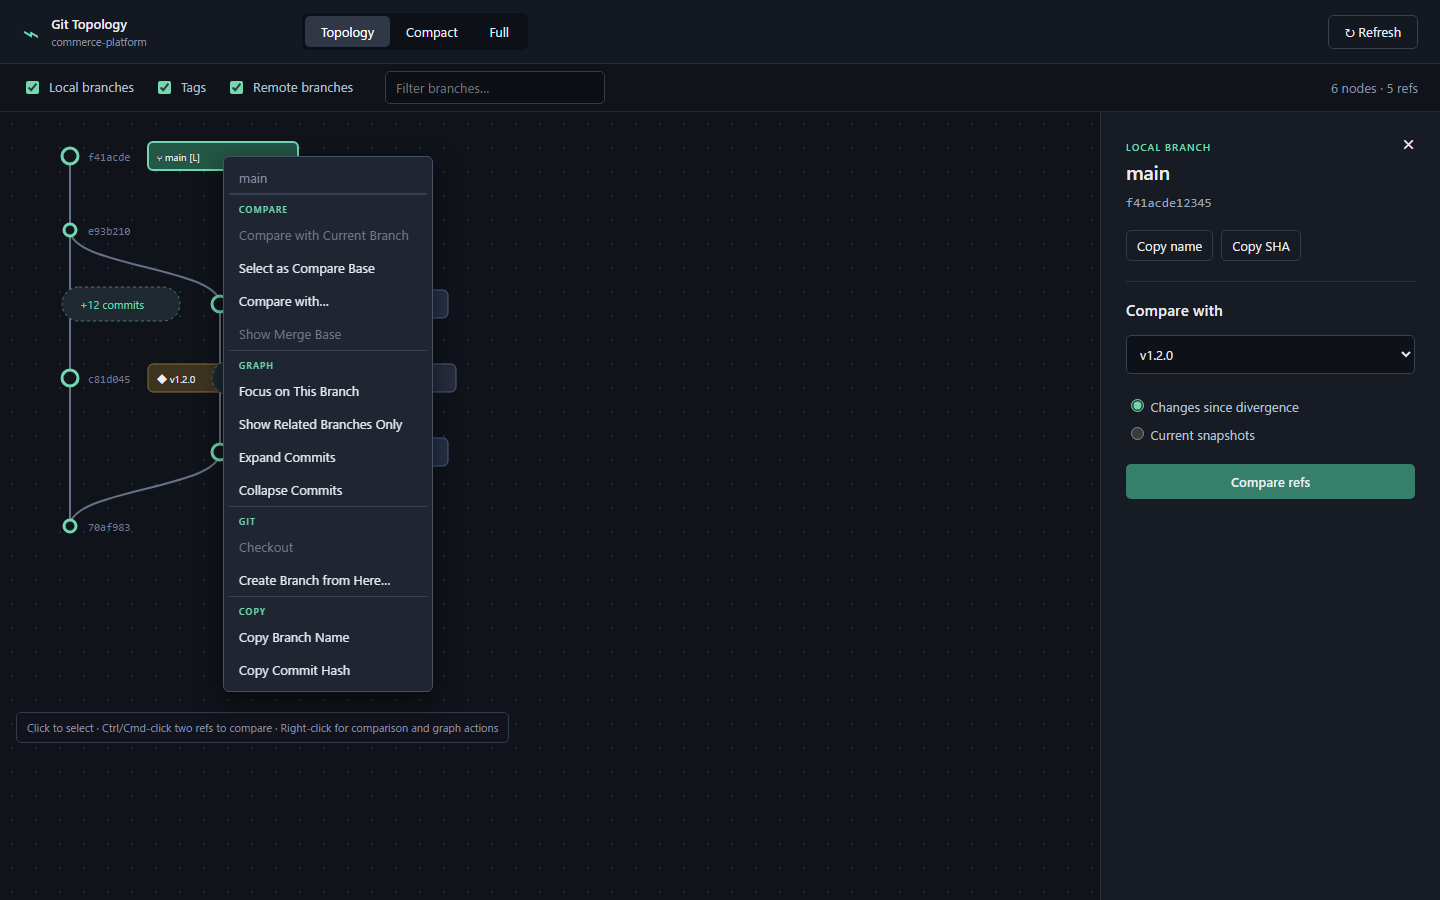
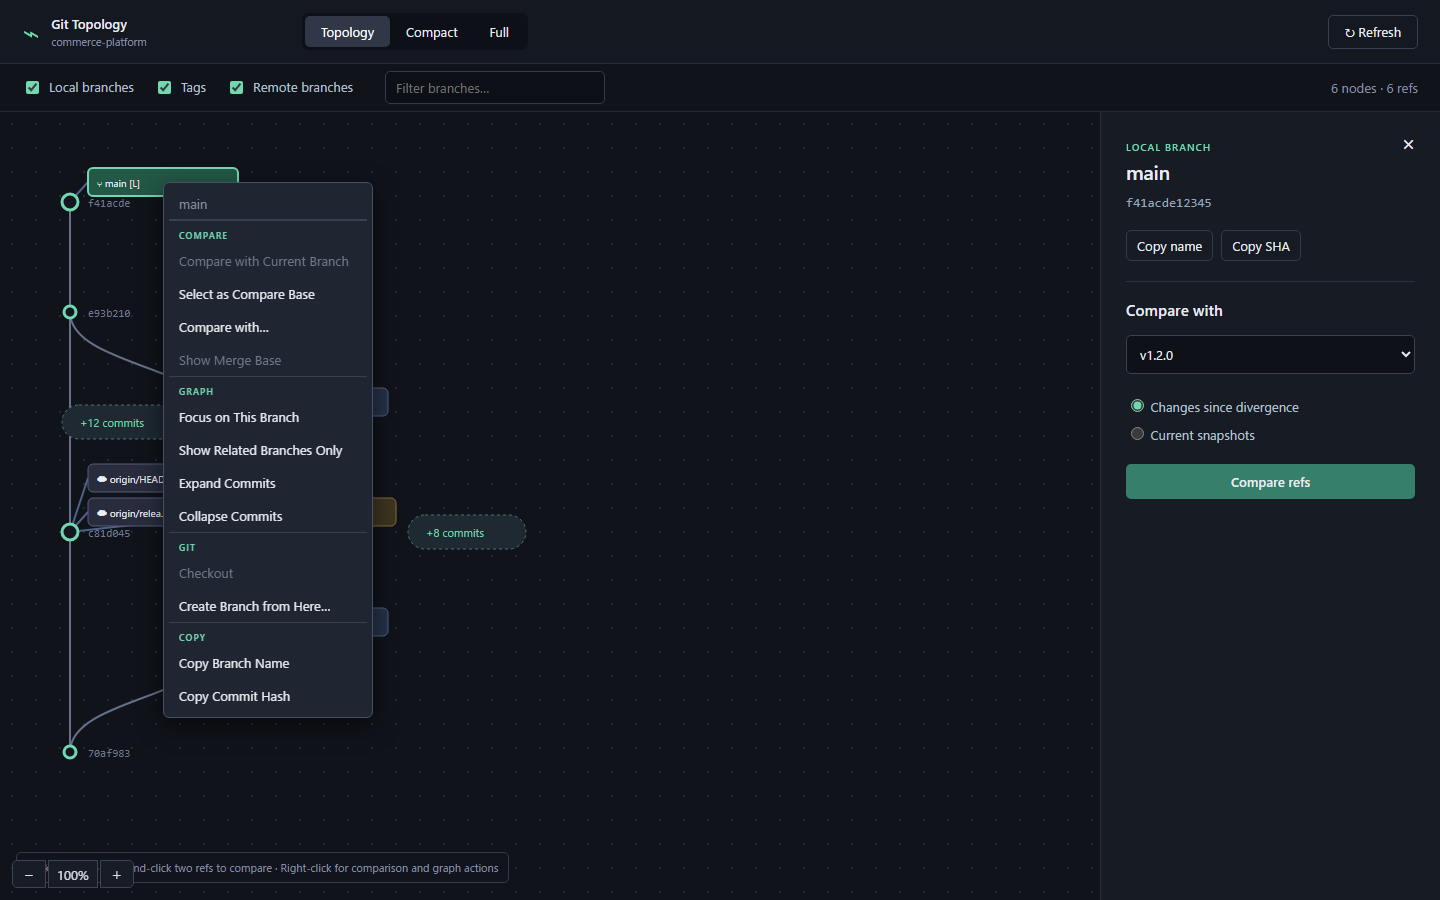
Adjust graph ref connections and zoom controls

Changed region(s): [[0.0312, 0.1556, 0.3438, 0.84], [0.0312, 0.9333, 0.3438, 0.9956]]

diff --git a/src/webview/styles.css b/src/webview/styles.css
@@ -1,3 +1,3 @@
 :root{color-scheme:dark;--bg:#10131a;--panel:#171b24;--muted:#8992a7;--line:#343c4d;--accent:#72d8b1;--blue:#6aa8ff}*{box-sizing:border-box}body{margin:0;background:var(--bg);color:#e8ebf2;font:13px var(--vscode-font-family,Inter,system-ui,sans-serif)}button,input,select{font:inherit;color:inherit}.app{height:100vh;display:flex;flex-direction:column}header{height:64px;display:flex;align-items:center;padding:0 22px;border-bottom:1px solid #282e3a;background:#141821}.brand{display:flex;gap:11px;align-items:center;min-width:280px}.brand .mark{font-size:30px;color:var(--accent)}.brand strong,.brand small{display:block}.brand small{color:var(--muted);margin-top:2px}.modes{display:flex;background:#0d1016;padding:3px;border-radius:7px}.modes button,.refresh,.actions button{border:0;background:transparent;padding:7px 16px;border-radius:5px}.modes .active{background:#303848;color:#fff}.refresh{margin-left:auto;border:1px solid #384152}.filters{height:48px;display:flex;align-items:center;gap:20px;padding:0 22px;border-bottom:1px solid #252b36;color:#b8c0d0}.filters label{display:flex;gap:7px}.filters input[type=checkbox]{accent-color:var(--accent)}.filters .search{margin-left:12px;background:#0c0f15;border:1px solid #343c49;border-radius:5px;padding:7px 10px;width:220px}.filters span{margin-left:auto;color:var(--muted)}.content{display:grid;grid-template-columns:minmax(0,1fr) 340px;flex:1;min-height:0}.canvas{overflow:auto;background-image:radial-gradient(#252b36 1px,transparent 1px);background-size:24px 24px}.canvas svg{display:block}.edges path{fill:none;stroke:#647189;stroke-width:2}.node circle{fill:#12161e;stroke:var(--accent);stroke-width:3}.node .sha{fill:#6f798c;font-family:monospace;font-size:11px}.ref{cursor:pointer}.ref rect{fill:#263147;stroke:#4e6388}.ref text{fill:#e9eef8;font-size:11px}.ref.tag rect{fill:#3d3420;stroke:#856f38}.ref.remoteBranch rect{fill:#282c3d;stroke:#555f7d}.range{cursor:pointer}.range rect{fill:#1e2932;stroke:#4f786d;stroke-dasharray:3}.range text{fill:var(--accent);font-size:11px}aside{background:var(--panel);border-left:1px solid #292f3a;overflow:auto}.empty{text-align:center;padding:90px 40px;color:var(--muted)}.empty span{font-size:36px;color:#536078}.inspector{padding:25px;position:relative}.inspector>small,.base small{color:var(--accent);font-weight:700;font-size:10px;letter-spacing:1px}.inspector h2{margin:5px 0 8px}.inspector code{color:#9aa5ba}.close{position:absolute;right:18px;top:14px;border:0;background:transparent;font-size:22px}.actions{display:flex;margin:20px 0}.actions button{border:1px solid #343c49;margin-right:8px;padding:6px 10px}.inspector hr{border:0;border-top:1px solid #2c3340;margin:18px 0}.inspector select{width:100%;background:#0e1118;border:1px solid #394251;padding:9px;border-radius:5px;margin-bottom:13px}.radio{display:block;margin:9px 0;color:#bac2d1}.radio input{accent-color:var(--accent)}.primary{width:100%;margin-top:12px;padding:9px;border:0;border-radius:5px;background:#357f6b;font-weight:600}.metrics{display:grid;grid-template-columns:repeat(3,1fr);gap:6px;margin-top:14px}.metrics div{background:#11151c;padding:10px;text-align:center}.metrics b,.metrics small{display:block}.metrics b{font-size:18px}.metrics small{color:var(--muted);font-size:10px}.base{display:flex;justify-content:space-between}.stat ins{color:#5bdb95;text-decoration:none}.stat del{color:#f37981;text-decoration:none}.files button{width:100%;display:flex;gap:8px;background:transparent;border:0;border-top:1px solid #2d3440;padding:9px 2px;text-align:left}.files i{font-style:normal;color:#69d49b}.files i.D{color:#ef737b}.files i.M{color:#e7b85f}.loading{height:100vh;display:grid;place-content:center;text-align:center;color:var(--muted)}.spinner{margin:auto;width:28px;height:28px;border:3px solid #303847;border-top-color:var(--accent);border-radius:50%;animation:spin 1s linear infinite}.toast{position:fixed;bottom:20px;left:20px;background:#5e2930;padding:12px 16px;border-radius:5px}.error{color:#f48289}@keyframes spin{to{transform:rotate(360deg)}}
 .ref.selected rect{fill:#235746;stroke:var(--accent);stroke-width:2}.selection-hint{position:sticky;left:16px;bottom:14px;width:max-content;padding:7px 10px;border:1px solid #343c49;border-radius:5px;background:#11151ddd;color:var(--muted);font-size:11px}.context-menu{position:fixed;z-index:10;min-width:210px;padding:5px;background:#202631;border:1px solid #475164;border-radius:6px;box-shadow:0 8px 24px #0008}.context-menu .context-title{padding:7px 10px;color:var(--muted);border-bottom:1px solid #394150;overflow:hidden;text-overflow:ellipsis}.context-menu button{display:block;width:100%;padding:8px 10px;border:0;background:transparent;text-align:left}.context-menu button:hover{background:#354158}.context-menu button:disabled{color:#747d8e;background:transparent}.context-separator{height:1px;margin:5px;background:#394150}.ref-log{margin-top:16px}.log-entry{display:grid;grid-template-columns:68px minmax(0,1fr);gap:8px;padding:9px 0;border-top:1px solid #2d3440}.log-entry span{overflow-wrap:anywhere;color:#c9d0dc}.toast.success{left:auto;right:20px;background:#235746;cursor:pointer}
-.context-group{text-transform:uppercase;color:var(--accent);font-size:9px;font-weight:700;letter-spacing:1px;padding:8px 10px 3px;border-top:1px solid #394150}.node.merge-base circle{fill:#d7ad4b;stroke:#fff;stroke-width:4;filter:drop-shadow(0 0 6px #d7ad4b)}.node.merge-base:after{content:'Merge Base'}.ref text{font-size:10px}.ref{outline:none}
+.context-group{text-transform:uppercase;color:var(--accent);font-size:9px;font-weight:700;letter-spacing:1px;padding:8px 10px 3px;border-top:1px solid #394150}.node.merge-base circle{fill:#d7ad4b;stroke:#fff;stroke-width:4;filter:drop-shadow(0 0 6px #d7ad4b)}.node.merge-base:after{content:'Merge Base'}.ref text{font-size:10px}.ref{outline:none}.ref-connectors path{fill:none;stroke:#4e6388;stroke-width:2}

diff --git a/src/webview/App.tsx b/src/webview/App.tsx
@@ -116,7 +116,7 @@ function Graph({data, allowed, selected, onSelect, onContextMenu}:{data:GraphPay
         </g>;
       }
       const visibleRefs = node.commit!.refs.filter(ref=>allowed.has(ref.fullName));
-      return <g key={node.id} data-commit={node.id} className={`node ${(data.mergeBaseIds ?? []).includes(node.id)?'merge-base':''}`} transform={`translate(${node.x},${node.y})`}><circle r={node.commit!.refs.length?8:6}/><text className="sha" x="18" y="5">{node.id.slice(0,7)}</text>{visibleRefs.map((ref,index)=>{const position=refPosition(visibleRefs,index);return <g key={ref.fullName} className={`ref ${ref.type} ${selected.has(ref.fullName)?'selected':''}`} transform={`translate(${position.x},${position.y})`} onClick={event=>{event.stopPropagation();onSelect(ref,event.ctrlKey||event.metaKey);}} onContextMenu={event=>onContextMenu(ref,event)} role="button" aria-label={`${ref.name} branch`}><rect width="150" height="28" rx="5"/><text x="9" y="19">{ref.type==='tag'?'◆ ':ref.type==='remoteBranch'?'☁ ':'⑂ '}{ref.name.length>13?ref.name.slice(0,12)+'…':ref.name}{branchState(data,ref)}</text></g>;})}</g>;
+      return <g key={node.id} data-commit={node.id} className={`node ${(data.mergeBaseIds ?? []).includes(node.id)?'merge-base':''}`} transform={`translate(${node.x},${node.y})`}><g className="ref-connectors" aria-hidden="true">{visibleRefs.map((ref,index)=>{const position=refPosition(visibleRefs,index);return <path key={ref.fullName} d={`M 0 0 L ${position.x} ${position.y + 14}`}/>;})}</g><circle r={node.commit!.refs.length?8:6}/><text className="sha" x="18" y="5">{node.id.slice(0,7)}</text>{visibleRefs.map((ref,index)=>{const position=refPosition(visibleRefs,index);return <g key={ref.fullName} className={`ref ${ref.type} ${selected.has(ref.fullName)?'selected':''}`} transform={`translate(${position.x},${position.y})`} onClick={event=>{event.stopPropagation();onSelect(ref,event.ctrlKey||event.metaKey);}} onContextMenu={event=>onContextMenu(ref,event)} role="button" aria-label={`${ref.name} branch`}><rect width="150" height="28" rx="5"/><text x="9" y="19">{ref.type==='tag'?'◆ ':ref.type==='remoteBranch'?'☁ ':'⑂ '}{ref.name.length>13?ref.name.slice(0,12)+'…':ref.name}{branchState(data,ref)}</text></g>;})}</g>;
     })}
   </g></svg><div className="selection-hint">Click to select · Ctrl/Cmd-click two refs to compare · Right-click for comparison and graph actions</div></section>;
 }

diff --git a/src/webview/zoom.css b/src/webview/zoom.css
@@ -1,10 +1,10 @@
 .zoom-controls {
-  position: sticky;
+  position: fixed;
   z-index: 5;
-  top: 12px;
+  bottom: 12px;
   left: 12px;
   width: max-content;
-  height: 0;
+  height: 28px;
   display: flex;
   gap: 2px;
 }
